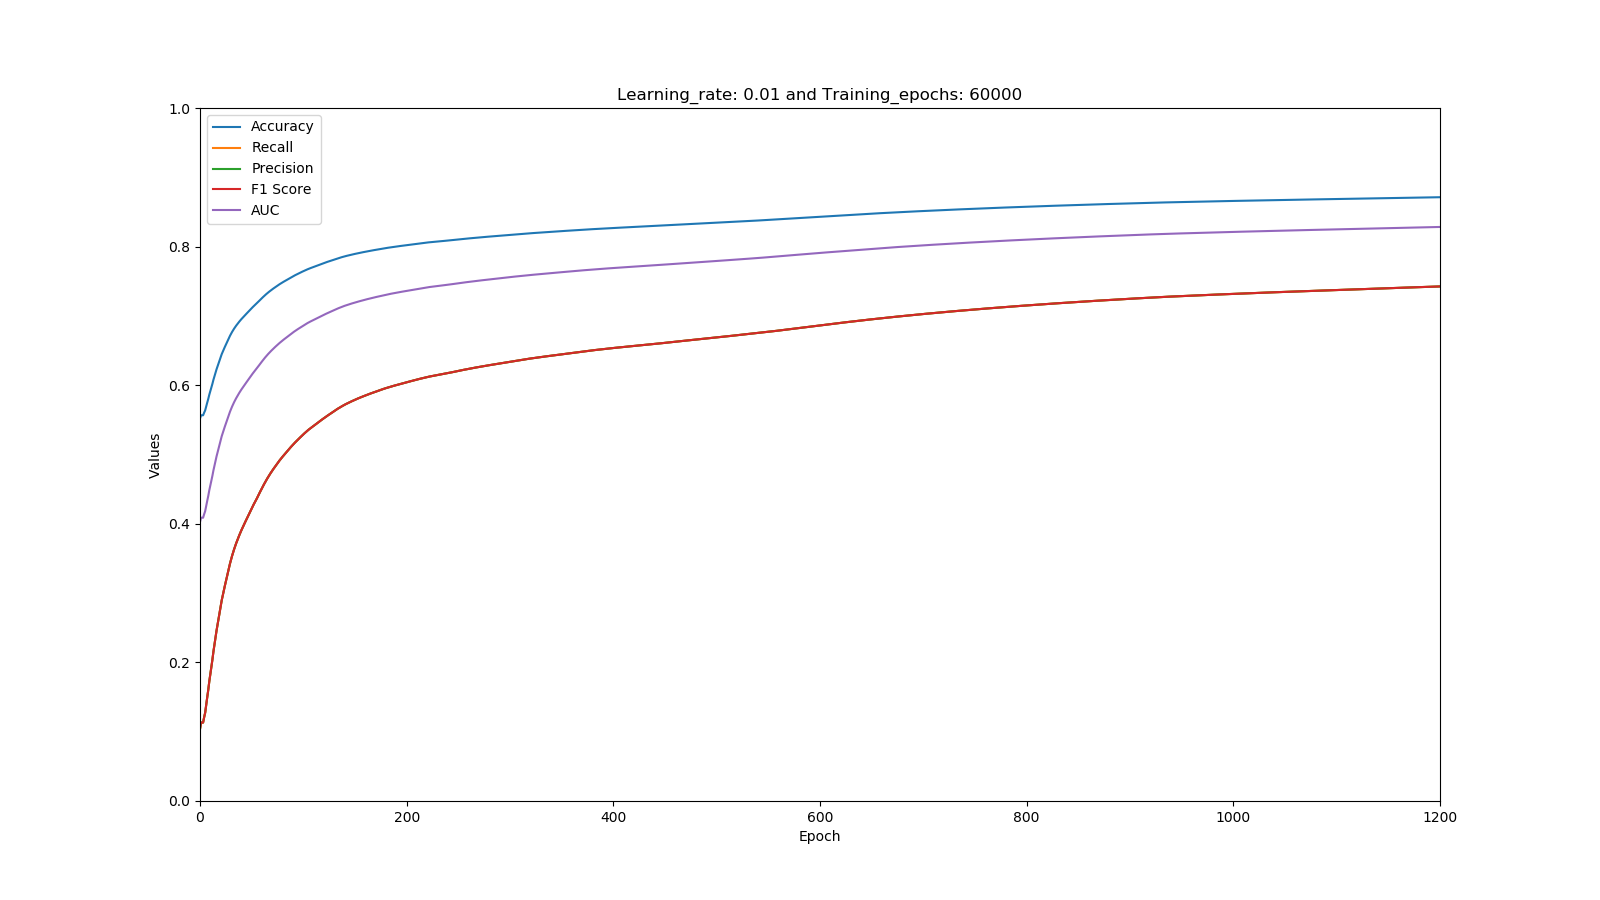
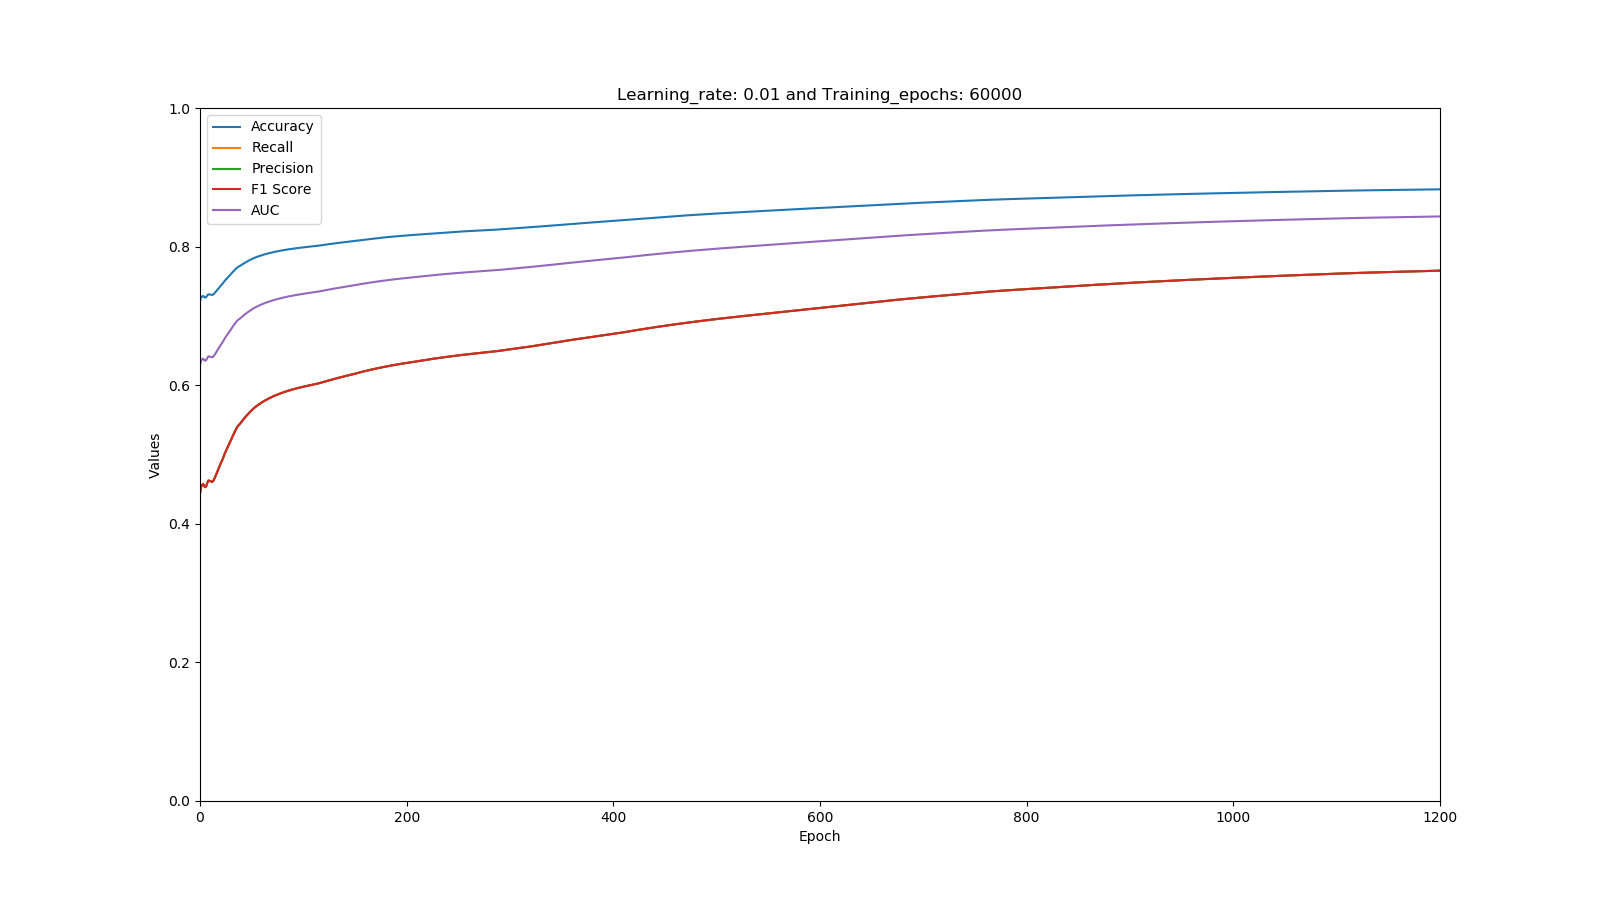
training_2: 0.01 learning rate and 15000 epochs

Changed region(s): [[0.1562, 0.1867, 0.9062, 0.4356], [0.125, 0.4356, 0.1562, 0.56], [0.125, 0.3422, 0.1562, 0.4044]]

diff --git a/training_2.py b/training_2.py
@@ -1,0 +1,128 @@
+import tensorflow as tf
+import numpy as np
+import csv
+import matplotlib.pyplot as plt
+import datetime
+
+users_training = {}
+x = []
+with open('training_set.csv', 'r') as csvfile:
+    spamreader = csv.reader(csvfile)
+    itercsv = iter(spamreader)
+    next(itercsv)
+    for row in spamreader:
+        users_training[row[0]] = None
+        x.append([float(i) for i in row[2:]])
+x_data = np.array(x)
+
+users_testing = {}
+z = []
+with open('testing_set.csv', 'r') as csvfile:
+    spamreader = csv.reader(csvfile)
+    itercsv = iter(spamreader)
+    next(itercsv)
+    for row in spamreader:
+        users_testing[row[0]] = None
+        z.append([float(i) for i in row[2:]])
+z_data = np.array(z)
+
+y = []
+w = []
+with open('major_index.csv', 'r') as csvfile:
+    spamreader = csv.reader(csvfile)
+    itercsv = iter(spamreader)
+    next(itercsv)
+    for row in spamreader:
+        user = row[0]
+        if user in users_training:
+            y.append([float(j) for j in row[2:]])
+        elif user in users_testing:
+            w.append([float(j) for j in row[2:]])
+y_data = np.array(y)
+w_data = np.array(w)
+
+learning_rate = 0.01
+training_epochs = 15000
+n_input = len(x[0])
+n_hidden = 15
+n_output = 4
+
+X = tf.placeholder(tf.float32)
+Y = tf.placeholder(tf.float32)
+
+rec, rec_op = tf.metrics.recall(labels=X, predictions=Y)
+acc, acc_op = tf.metrics.accuracy(labels=X, predictions=Y)
+pre, pre_op = tf.metrics.precision(labels=X, predictions=Y)
+auc, auc_op = tf.metrics.auc(labels=X, predictions=Y)
+
+W1 = tf.Variable(tf.random_uniform([n_input, n_hidden], -1.0, 1.0))
+W2 = tf.Variable(tf.random_uniform([n_hidden, n_output], -1.0, 1.0))
+
+b1 = tf.Variable(tf.zeros([n_hidden]), name="Bias1")
+b2 = tf.Variable(tf.zeros([n_output]), name="Bias2")
+
+L2 = tf.sigmoid(tf.matmul(X, W1) + b1)
+hy = tf.sigmoid(tf.matmul(L2, W2) + b2)
+
+cost = tf.reduce_mean(-Y * tf.log(hy) - (1 - Y) * tf.log(1 - hy))
+
+init = tf.group(tf.global_variables_initializer(), tf.local_variables_initializer())
+
+learning_rates = [0.1, 0.01, 0.001, 0.0001]
+training_epochses = [1000, 10000, 15000, 60000]
+lr = 0.01
+optimizer = tf.train.GradientDescentOptimizer(lr).minimize(cost)
+te = 60000
+accuracies = []
+recalls = []
+precisions = []
+F1_scores = []
+AUCs = []
+with tf.device('/gpu:0'):
+    with tf.Session() as sesh:
+        sesh.run(init)
+        start = datetime.datetime.now()
+        for step in range(te):
+            sesh.run(optimizer, feed_dict={X: x_data, Y: y_data})
+
+            data = sesh.run(cost, feed_dict={X: x_data, Y: y_data})
+            if data is None:
+                continue
+            if step % 50 == 0:
+                outputs = (sesh.run([hy], feed_dict={X: z_data, Y: w_data})[0]).tolist()
+                predictions = []
+                for item in outputs:
+                    max_index = item.index(max(item))
+                    aux_list = [0, 0, 0, 0]
+                    aux_list[max_index] = 1
+                    predictions.append(aux_list)
+                predictions = np.array(predictions)
+                accuracy = sesh.run(acc_op, feed_dict={X: w_data, Y: predictions})
+                recall = sesh.run(rec_op, feed_dict={X: w_data, Y: predictions})
+                precision = sesh.run(pre_op, feed_dict={X: w_data, Y: predictions})
+                auc = sesh.run(auc_op, feed_dict={X: w_data, Y: predictions})
+                F1_score = 2*precision*recall/(precision+recall)
+                accuracies.append(accuracy)
+                recalls.append(recall)
+                precisions.append(precision)
+                AUCs.append(auc)
+                F1_scores.append(F1_score)
+                print(accuracy, recall, precision, F1_score, auc)
+        end = datetime.datetime.now()
+        print("Learning rate: {} and training epoch: {}".format(lr, te))
+        print('\tSTART: {}\n\tEND: {}\n\tDURATION: {} seconds'.format(start.time(), end.time(), (end-start).seconds))
+        print('\t#################\n\tAccuracy: {}\n\tRecall: {}\n\tPrecision: {}\n\tF1 Score: {}\n\tAUC: {}'.format(accuracies[-1], recalls[-1], precisions[-1], F1_scores[-1], AUCs[-1]))
+        plt.figure(figsize=(16, 9), dpi=100)
+        plt.plot(range(te//50), accuracies)
+        plt.plot(range(te//50), recalls)
+        plt.plot(range(te//50), precisions)
+        plt.plot(range(te//50), F1_scores)
+        plt.plot(range(te//50), AUCs)
+        plt.axis([0, te//50, 0, 1])
+        plt.xlabel('Epoch')
+        plt.ylabel('Values')
+        plt.legend(['Accuracy', 'Recall', 'Precision', 'F1 Score', 'AUC'])
+        plt.title('Learning_rate: {} and Training_epochs: {}'.format(lr, te))
+        plt.axis()
+        plt.savefig("lr{}_te{}_training.png".format(lr, te))
+        plt.show()
